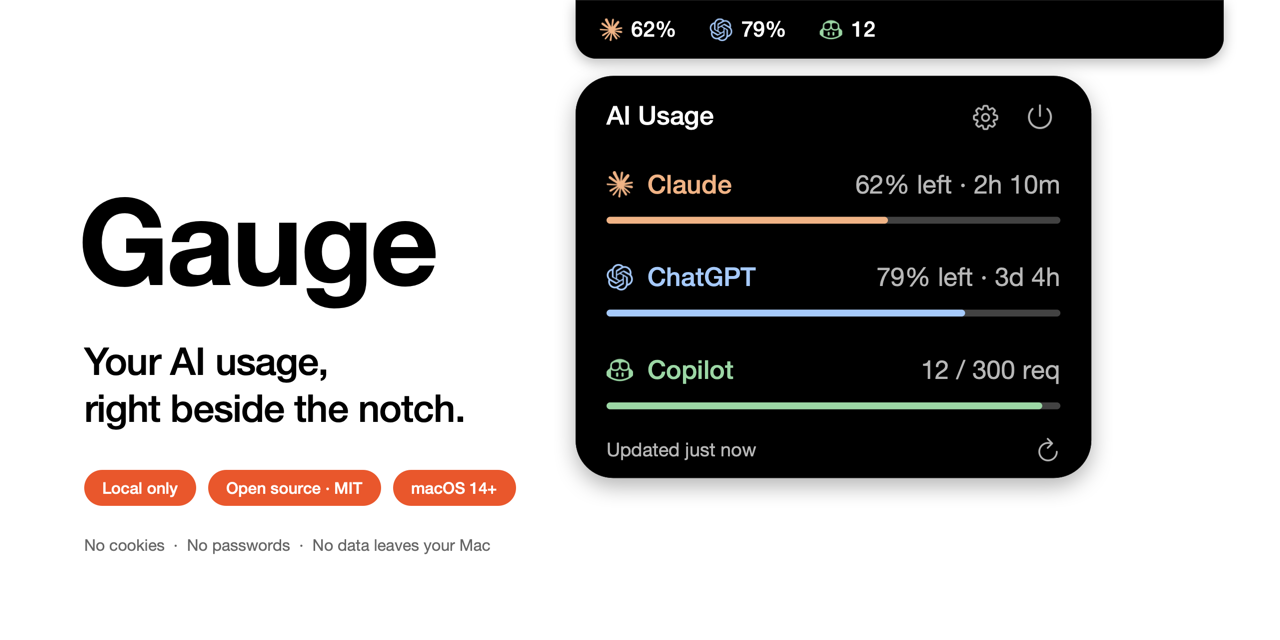
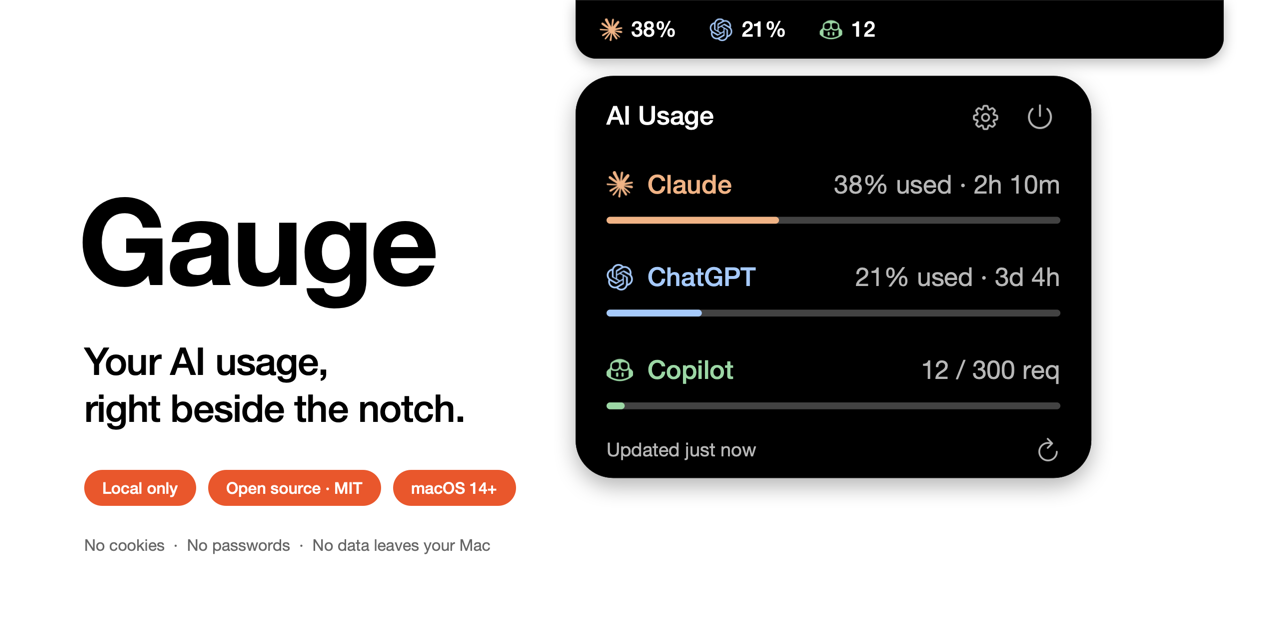
Show usage as "used" everywhere; start versioning at 0.1.0
- Island, card, bars, hover lists and alerts all show what has been used,
  never what is left; bars fill as you spend and turn red near the limit
- Typed-in Claude percentages are entered as "used", like claude.ai shows
- README and images updated to match; version reset to 0.1.0

diff --git a/Sources/Gauge/AppModel.swift b/Sources/Gauge/AppModel.swift
@@ -67,7 +67,7 @@ final class AppModel {
     var codexStale: Bool { error != nil || lastUpdated == nil || (lastUpdated.map { now.timeIntervalSince($0) > Double(refreshMinutes * 60 + 90) } ?? true) }
     /// What Claude Code reports about the real limits, ready to show. Windows that already reset count as unused.
     private struct ClaudeExact {
-        let remaining: Double          // 0...1, the tightest limit
+        let used: Double               // 0...1, the tightest limit
         let barText: String
         let cardText: String
         let lines: [(name: String, value: String)]
@@ -76,44 +76,44 @@ final class AppModel {
         guard let limits = claudeLimits, now.timeIntervalSince(limits.updatedAt) < 7 * 86400 else { return nil }
         let stale = now.timeIntervalSince(limits.updatedAt) > 90 * 60
         let suffix = stale ? " · Stale" : ""
-        func left(_ w: ClaudeLimitWindow) -> (fraction: Double, resets: Date?) {
-            if let r = w.resetsAt, r <= now { return (1, nil) }   // window rolled over since the last report
-            return (max(0, min(1, 1 - w.usedPercent / 100)), w.resetsAt)
+        func usedIn(_ w: ClaudeLimitWindow) -> (fraction: Double, resets: Date?) {
+            if let r = w.resetsAt, r <= now { return (0, nil) }   // window rolled over since the last report
+            return (max(0, min(1, w.usedPercent / 100)), w.resetsAt)
         }
         func percent(_ f: Double) -> String { "\(Int((f * 100).rounded()))%" }
         var lines: [(name: String, value: String)] = []
 
         if let spend = limits.spend {
-            var fraction = max(0, min(1, 1 - spend.usedPercent / 100))
+            var fraction = max(0, min(1, spend.usedPercent / 100))
             var resets = spend.resetsAt
-            if let r = resets, r <= now { fraction = 1; resets = nil }
+            if let r = resets, r <= now { fraction = 0; resets = nil }
             let period = spend.period.map { "\($0.capitalized) spend limit" } ?? "Spend limit"
             let amount: String
             if let used = spend.usedUSD, let limit = spend.limitUSD { amount = "\(money(used)) / \(money(limit))" }
-            else { amount = "\(percent(fraction)) left" }
+            else { amount = "\(percent(fraction)) used" }
             lines.append((period, amount))
             if let window = limits.fiveHour { lines.append(("5-hour limit", windowValue(window))) }
             if let window = limits.sevenDay { lines.append(("Weekly limit", windowValue(window))) }
             let countdown = shortCountdown(resets, now: now).map { " · \($0)" } ?? ""
-            return ClaudeExact(remaining: fraction, barText: spend.usedUSD.map(money) ?? percent(fraction),
+            return ClaudeExact(used: fraction, barText: spend.usedUSD.map(money) ?? percent(fraction),
                                cardText: amount + countdown + suffix, lines: lines)
         }
         var candidates: [(label: String, fraction: Double, resets: Date?)] = []
-        if let w = limits.fiveHour { let l = left(w); candidates.append(("5-hour limit", l.fraction, l.resets)) }
-        if let w = limits.sevenDay { let l = left(w); candidates.append(("Weekly limit", l.fraction, l.resets)) }
-        guard let tightest = candidates.min(by: { $0.fraction < $1.fraction }) else { return nil }
+        if let w = limits.fiveHour { let l = usedIn(w); candidates.append(("5-hour limit", l.fraction, l.resets)) }
+        if let w = limits.sevenDay { let l = usedIn(w); candidates.append(("Weekly limit", l.fraction, l.resets)) }
+        guard let tightest = candidates.max(by: { $0.fraction < $1.fraction }) else { return nil }
         lines = candidates.map { c in
             let countdown = shortCountdown(c.resets, now: now).map { " · \($0)" } ?? ""
-            return (name: c.label, value: "\(percent(c.fraction)) left" + countdown)
+            return (name: c.label, value: "\(percent(c.fraction)) used" + countdown)
         }
         let countdown = shortCountdown(tightest.resets, now: now).map { " · \($0)" } ?? ""
-        return ClaudeExact(remaining: tightest.fraction, barText: percent(tightest.fraction),
-                           cardText: "\(percent(tightest.fraction)) left" + countdown + suffix, lines: lines)
+        return ClaudeExact(used: tightest.fraction, barText: percent(tightest.fraction),
+                           cardText: "\(percent(tightest.fraction)) used" + countdown + suffix, lines: lines)
     }
     private func windowValue(_ w: ClaudeLimitWindow) -> String {
-        if let r = w.resetsAt, r <= now { return "100% left" }
+        if let r = w.resetsAt, r <= now { return "0% used" }
         let countdown = shortCountdown(w.resetsAt, now: now).map { " · \($0)" } ?? ""
-        return "\(Int((max(0, 100 - w.usedPercent)).rounded()))% left" + countdown
+        return "\(Int(max(0, min(100, w.usedPercent)).rounded()))% used" + countdown
     }
 
     private var manualClaudeFresh: Bool { claudeSession >= 0 && !claudeStale }
@@ -121,19 +121,19 @@ final class AppModel {
     private func claudeAmount(tokens: Int, cost: Double) -> String { claudeUnit == "dollars" ? money(cost) : compactTokens(tokens) }
     var claudeBarText: String {
         if let exact = claudeExact { return exact.barText }
-        if manualClaudeFresh { return "\(claudeSession)%" }
+        if manualClaudeFresh { return "\(100 - claudeSession)%" }
         if let local = claudeLocal {
             return claudeAmount(tokens: local.sessionTokens ?? local.weeklyTokens, cost: local.sessionCost ?? local.weeklyCost)
         }
-        return claudeSession >= 0 ? "\(claudeSession)%" : "—"
+        return claudeSession >= 0 ? "\(100 - claudeSession)%" : "—"
     }
-    /// 0...1 for the Claude bar: remaining % when known, otherwise the time left in the current 5-hour session.
+    /// 0...1 for the Claude bar: share used when known, otherwise the time left in the current 5-hour session (shown as a caption, not a bar).
     var claudeProgress: Double? {
-        if let exact = claudeExact { return exact.remaining }
-        if manualClaudeFresh { return Double(claudeSession) / 100 }
+        if let exact = claudeExact { return exact.used }
+        if manualClaudeFresh { return Double(100 - claudeSession) / 100 }
         if let local = claudeLocal, let resets = local.sessionResetsAt { return max(0, min(1, resets.timeIntervalSince(now) / (5 * 3600))) }
         if claudeLocal != nil { return 1 }
-        return claudeSession >= 0 ? Double(claudeSession) / 100 : nil
+        return claudeSession >= 0 ? Double(100 - claudeSession) / 100 : nil
     }
     /// Per-project lines for the card (at most 4 rows; the rest are folded into "+N more").
     private func lines(_ projects: [ProjectUsage], amount: (Int, Double) -> String) -> [(name: String, tokens: String)] {
@@ -178,19 +178,19 @@ final class AppModel {
         return codexProjectsWeek.isEmpty ? [] : idleLines("No activity in this window", week: codexProjectsWeek)
     }
     private var codexBarText: String {
-        if let codex = shortestCodex { return "\(codexStale ? "~" : "")\(Int(codex.remainingPercent.rounded()))%" }
+        if let codex = shortestCodex { return "\(codexStale ? "~" : "")\(Int(codex.usedPercent.rounded()))%" }
         if codexCredits?.unlimited == true { return "∞" }
-        if codexSpendReached { return "0" }
+        if codexSpendReached { return "100%" }
         if let balance = codexCredits?.balance, codexCredits?.hasCredits == true { return balance }
         return "—"
     }
     private var codexCardText: String {
         if codexSpendReached { return "Spend limit reached" }
         if let codex = shortestCodex {
-            let remaining = "\(Int(codex.remainingPercent.rounded()))% left"
-            if codexStale { return "\(remaining) · Stale" }
-            if let countdown = shortCountdown(codex.resetsAt, now: now) { return "\(remaining) · \(countdown)" }
-            return remaining
+            let used = "\(Int(codex.usedPercent.rounded()))% used"
+            if codexStale { return "\(used) · Stale" }
+            if let countdown = shortCountdown(codex.resetsAt, now: now) { return "\(used) · \(countdown)" }
+            return used
         }
         // No percent windows: admin-managed or credit-based plan.
         if let credits = codexCredits {
@@ -207,18 +207,18 @@ final class AppModel {
         case nil: return "Limit"
         }
     }
-    /// One line per rate-limit window ("Weekly limit  79% · 3d 4h"), shown before the per-project list.
+    /// One line per rate-limit window ("Weekly limit  21% · 3d 4h"), shown before the per-project list.
     private var codexWindowLines: [(name: String, value: String)] {
         windows.sorted { ($0.durationMinutes ?? 0) < ($1.durationMinutes ?? 0) }.map { w in
-            let left = "\(Int(w.remainingPercent.rounded()))%"
-            let value = shortCountdown(w.resetsAt, now: now).map { "\(left) · \($0)" } ?? left
+            let used = "\(Int(w.usedPercent.rounded()))%"
+            let value = shortCountdown(w.resetsAt, now: now).map { "\(used) · \($0)" } ?? used
             return (name: windowLabel(w.durationMinutes), value: value)
         }
     }
     private var codexProgress: Double? {
-        if let codex = shortestCodex { return codex.remainingPercent / 100 }
-        if codexSpendReached { return 0 }
-        if codexCredits?.unlimited == true { return 1 }
+        if let codex = shortestCodex { return codex.usedPercent / 100 }
+        if codexSpendReached { return 1 }
+        if codexCredits?.unlimited == true { return 0 }
         return nil
     }
     private func rows(_ items: [(name: String, tokens: String)]) -> [(name: String, value: String)] {
@@ -243,7 +243,7 @@ final class AppModel {
         return ProviderCard(id: "copilot", glyph: "◆", name: "Copilot", tint: Palette.green,
                             barText: formatRequests(used),
                             cardText: "\(formatRequests(used)) / \(limit) req",
-                            progress: max(0, 1 - used / Double(limit)), lines: lines)
+                            progress: min(1, used / Double(limit)), lines: lines)
     }
 
     /// Why GitHub billing could not be read (nil when it works or is off). Shown in Settings.
@@ -282,18 +282,19 @@ final class AppModel {
     }
     var claudeCardText: String {
         if let exact = claudeExact { return exact.cardText }
-        if manualClaudeFresh { return "\(claudeSession)% left" }
+        if manualClaudeFresh { return "\(100 - claudeSession)% used" }
         if let local = claudeLocal {
             if let tokens = local.sessionTokens {
                 return claudeAmount(tokens: tokens, cost: local.sessionCost ?? 0)
             }
             return claudeAmount(tokens: local.weeklyTokens, cost: local.weeklyCost)
         }
-        if claudeSession >= 0 { return "\(claudeSession)% left · Stale" }
-        if claudeWeekly >= 0 { return "\(claudeWeekly)% weekly" }
+        if claudeSession >= 0 { return "\(100 - claudeSession)% used · Stale" }
+        if claudeWeekly >= 0 { return "\(100 - claudeWeekly)% weekly used" }
         return "No data"
     }
-    var shortestCodex: UsageWindow? { windows.min { $0.remainingPercent < $1.remainingPercent } }
+    /// The window that is closest to its limit (the most used one).
+    var shortestCodex: UsageWindow? { windows.max { $0.usedPercent < $1.usedPercent } }
 
     private init() {
         claudeSession = defaults.object(forKey: "claudeSession") as? Int ?? -1
@@ -412,7 +413,7 @@ final class AppModel {
             guard band < previous, band != 101 else { continue }
             let note = UNMutableNotificationContent()
             note.title = "Codex usage warning"
-            note.body = "\(item.name): \(Int(remaining.rounded()))% remaining"
+            note.body = "\(item.name): \(Int((100 - remaining).rounded()))% used"
             UNUserNotificationCenter.current().add(
                 UNNotificationRequest(identifier: UUID().uuidString, content: note, trigger: nil)
             ) { _ in }

diff --git a/Sources/Gauge/UI.swift b/Sources/Gauge/UI.swift
@@ -1,7 +1,7 @@
 import AppKit
 import Foundation
 
-/// Thin rounded progress bar. `progress` is 0...1 of the remaining amount; nil shows an empty track.
+/// Thin rounded progress bar. `progress` is 0...1 of the amount used; nil shows an empty track.
 @MainActor
 final class ProgressBar: NSView {
     private let fill = CALayer()
@@ -27,8 +27,8 @@ final class ProgressBar: NSView {
         CATransaction.begin()
         CATransaction.setAnimationDuration(0.25)
         fill.frame = CGRect(x: 0, y: 0, width: bounds.width * value, height: bounds.height)
-        // Turn red when little is left.
-        let low = isExact && (progress.map { $0 <= 0.15 } ?? false)
+        // Turn red when the limit is nearly used up.
+        let low = isExact && (progress.map { $0 >= 0.85 } ?? false)   // nearly used up
         fill.backgroundColor = (low ? NSColor.systemRed : (isExact ? tint : NSColor(calibratedWhite: 0.5, alpha: 1))).cgColor
         CATransaction.commit()
     }
@@ -494,7 +494,7 @@ final class SettingsWindowController: NSWindowController, NSTabViewDelegate {
         manualButtons.addArrangedSubview(actionButton("Clear", target: self, action: #selector(clearClaude)))
         manualButtons.addArrangedSubview(actionButton("Open Claude usage page", target: self, action: #selector(openClaude)))
         [help("Only needed if you do not connect real limits above. Copy the percentages from claude.ai → Settings → Usage. A value saved less than an hour ago is shown instead of dollars or tokens."),
-         settingsRow("5-hour window left", control: session), settingsRow("Weekly limit left", control: weekly),
+         settingsRow("5-hour window used", control: session), settingsRow("Weekly limit used", control: weekly),
          settingsRow("Window resets at", control: resetPicker), manualButtons].forEach { manualBody.addArrangedSubview($0) }
         let manualBlock = verticalStack(spacing: 8)
         manualBlock.addArrangedSubview(manualHeader)
@@ -514,7 +514,7 @@ final class SettingsWindowController: NSWindowController, NSTabViewDelegate {
         addTab("ChatGPT", [
             group("Limits", [help("Gauge asks the Codex program on this Mac for your limits and when they reset. Sign in once with your ChatGPT account using the command codex login."),
                               actionButton("Refresh now", target: self, action: #selector(refresh))]),
-            group("Alerts", [notifyCheckbox, help("A normal macOS notification at 20%, 10% and 0% left. macOS asks your permission the first time.")])
+            group("Alerts", [notifyCheckbox, help("A normal macOS notification when 80%, 90% and 100% of your limit is used. macOS asks your permission the first time.")])
         ])
         addTab("Copilot", [
             group("Usage", [copilotCheckbox, settingsRow("Monthly requests", control: copilotLimitField),
@@ -563,8 +563,9 @@ final class SettingsWindowController: NSWindowController, NSTabViewDelegate {
     }
     func reload() {
         updateLimitsUI()
-        session.selectItem(at: model.claudeSession + 1)
-        weekly.selectItem(at: model.claudeWeekly + 1)
+        // The model keeps "% left" (as before); the pickers show "% used", like claude.ai does.
+        session.selectItem(at: model.claudeSession < 0 ? 0 : (100 - model.claudeSession) + 1)
+        weekly.selectItem(at: model.claudeWeekly < 0 ? 0 : (100 - model.claudeWeekly) + 1)
         resetPicker.dateValue = model.claudeReset
         copilotCheckbox.state = model.useCopilot ? .on : .off
         copilotLimitField.stringValue = String(model.copilotLimit)
@@ -579,7 +580,10 @@ final class SettingsWindowController: NSWindowController, NSTabViewDelegate {
         status.stringValue = model.loginError ?? "Gauge keeps everything on this Mac. It never asks for passwords, reads cookies or sends your data anywhere."
         status.textColor = model.loginError == nil ? .secondaryLabelColor : .systemOrange
     }
-    @objc private func saveClaude() { model.saveClaude(session: session.indexOfSelectedItem - 1, weekly: weekly.indexOfSelectedItem - 1, reset: resetPicker.dateValue) }
+    @objc private func saveClaude() {
+        func left(_ index: Int) -> Int { index <= 0 ? -1 : 100 - (index - 1) }   // picker shows "used"
+        model.saveClaude(session: left(session.indexOfSelectedItem), weekly: left(weekly.indexOfSelectedItem), reset: resetPicker.dateValue)
+    }
     @objc private func clearClaude() { model.clearClaude(); reload() }
     @objc private func openClaude() { NSWorkspace.shared.open(URL(string: "https://claude.ai/settings/usage")!) }
     @objc private func refresh() { model.refresh() }

diff --git a/Sources/Gauge/CodexClient.swift b/Sources/Gauge/CodexClient.swift
@@ -83,7 +83,7 @@ struct CodexClient {
             input.fileHandleForWriting.write(payload + Data([10]))
         }
         try send(["id": 1, "method": "initialize", "params": [
-            "clientInfo": ["name": "gauge", "title": "Gauge", "version": "0.3.2"],
+            "clientInfo": ["name": "gauge", "title": "Gauge", "version": "0.1.0"],
             "capabilities": [:] as [String: String]
         ]])
         let initialized = try collector.wait(for: 1, timeout: 8)

diff --git a/Sources/Gauge/Provider.swift b/Sources/Gauge/Provider.swift
@@ -11,7 +11,7 @@ struct ProviderCard {
     let barText: String
     /// Right-hand status on the card row.
     let cardText: String
-    /// 0...1 of what is left; nil draws an empty bar.
+    /// 0...1 of what is used (the bar fills as you spend); nil draws an empty bar.
     let progress: Double?
     /// False when the bar is only a rough guide (for example Claude's session clock), so it is never drawn as a warning.
     var progressIsExact: Bool = true

diff --git a/README.md b/README.md
@@ -20,7 +20,7 @@ On a MacBook with a notch, the numbers sit next to the notch. Move the mouse ont
 ### What you get
 
 - **A glance at the top of the screen:** a logo and a short value per tool beside the notch (or in the menu bar on Macs without one).
-- **A card on hover** with a progress bar per tool and a breakdown by project.
+- **A card on hover** with a progress bar per tool and a breakdown by project. Everything is shown as **what you have used**, so a bigger number or a fuller bar always means more spent.
 - **Claude Code:** what the current 5-hour session cost, in dollars at API prices or in tokens, plus your **real limit and reset time** (or your company's spend and budget) once you connect it with one click.
 - **ChatGPT (Codex):** your real 5-hour and weekly limits with reset countdowns, and optional alerts.
 - **GitHub Copilot:** premium requests this month against your plan's allowance, with an optional exact total from GitHub.
@@ -174,7 +174,7 @@ Claude does not let other programs read your limit directly, but Claude Code its
 1. Open Gauge's **Settings** (gear on the card) and go to the **Claude** tab.
 2. Under **Real limits from Claude Code**, click **Connect Claude limits**.
 3. Gauge explains what it will change. Click **Connect**.
-4. Use Claude Code as usual. After its next reply, the Claude row shows your real percentage left and when it resets. Claude Code sessions that were already open may need a restart.
+4. Use Claude Code as usual. After its next reply, the Claude row shows how much of your real limit you have used and when it resets. Claude Code sessions that were already open may need a restart.
 
 What this does: it adds one entry called `statusLine` to Claude Code's settings file (`~/.claude/settings.json`). Gauge saves a backup copy next to it first (`settings.json.gauge-backup`). If you already have your own status line, it keeps working: Gauge passes the information on to it. Click **Disconnect** in the same place to put everything back exactly as it was.
 
@@ -197,7 +197,7 @@ You only do this once. It uses an app called **Terminal**, which is already on y
    ```
 
 4. Your web browser opens. Sign in with your ChatGPT account and approve.
-5. Back in Gauge, click ⟳. The ChatGPT row now shows how much of your limit is left, and when it resets.
+5. Back in Gauge, click ⟳. The ChatGPT row now shows how much of your limit you have used, and when it resets.
 
 If you do not use Codex, simply skip this. The ChatGPT row only appears once Gauge finds Codex on your Mac.
 
@@ -233,15 +233,15 @@ If it does not work (for example because your company manages your GitHub accoun
 
 1. **The island** next to the notch: a logo and a short value for each tool. This is what you see all the time.
 2. **The tool's logo and name.** Move the mouse onto a row to see a breakdown.
-3. **The main figure** on the right: how much is left (or how much you used) and when it resets.
-4. **The bar**: how much is left. It turns red when little is left.
+3. **The main figure** on the right: how much you have used, and when it resets.
+4. **The bar**: how much of the limit is used. It fills as you spend and turns red when it is nearly used up.
 5. **Buttons**: the gear opens Settings, the power button quits Gauge. The arrow at the bottom right reloads the numbers.
 
 The card has one row per tool. Each row has:
 
 - **The tool's logo and name** (Claude, ChatGPT, Copilot).
-- **A number on the right**, for example `$10.8` or `79% left`.
-- **A coloured bar** underneath that shows how much is left. It turns **red** when little is left.
+- **A number on the right**, for example `$10.8` or `21% used`.
+- **A coloured bar** underneath that fills as you use more. It turns **red** when you are close to the limit.
 - For Claude, if you have neither connected the limits nor typed in percentages, a **short note** instead of a bar, saying what the number is (see below). Without your real limit there is nothing true to draw as a bar.
 
 What the text means for each tool:
@@ -250,9 +250,9 @@ What the text means for each tool:
 |------|------|---------|
 | **Claude** | `$10.8` and the note *This 5-hour session · 1h 18m left* | What this 5-hour session cost at normal public prices, and how long until the session ends. In tokens mode, it shows a token count instead of dollars. |
 | **Claude** (idle) | `$270` and the note *No active session · last 7 days* | No session is running. This is the total for the last 7 days. |
-| **Claude** (limits connected) | `29% left · 1h 14m` and a bar | Your real limit: how much is left in the tightest window (5-hour or weekly) and when it resets. With a company spend limit it reads like `$314 / $500 · 12d 3h`. If Claude Code has not reported for a while it says *Stale*. |
-| **Claude** (with percentages typed in) | `62% left` and a bar | The percentage you copied from the Claude website. |
-| **ChatGPT** | `79% left · 3d 4h` | How much of your limit is left, and when it resets. |
+| **Claude** (limits connected) | `38% used · 2h 10m` and a bar | Your real limit: how much of the fullest window (5-hour or weekly) is used and when it resets. With a company spend limit it reads like `$314 / $500 · 12d 3h`. If Claude Code has not reported for a while it says *Stale*. |
+| **Claude** (with percentages typed in) | `38% used` and a bar | The percentage you copied from the Claude website. |
+| **ChatGPT** | `21% used · 3d 4h` | How much of your limit is used, and when it resets. |
 | **Copilot** | `12 / 300 req` | Requests used this month out of your monthly allowance. |
 
 **Move the mouse onto a row** to see a breakdown: which projects used how much. For ChatGPT it also shows both limits (the 5-hour one and the weekly one) with their reset times.
@@ -292,8 +292,8 @@ Only needed if you do not connect real limits. Copy the percentages from claude.
 
 | Setting | What it does |
 |---------|--------------|
-| **5-hour window left** | The percentage left in your 5-hour window. |
-| **Weekly limit left** | The percentage left for the week. |
+| **5-hour window used** | The percentage used in your 5-hour window, as claude.ai shows it. |
+| **Weekly limit used** | The percentage used for the week. |
 | **Window resets at** | When your 5-hour window resets. |
 | **Save** | Saves the three values above. |
 | **Clear** | Deletes the saved values. |
@@ -308,7 +308,7 @@ Only needed if you do not connect real limits. Copy the percentages from claude.
 | Setting | What it does |
 |---------|--------------|
 | **Refresh now** | Asks Codex for fresh numbers right away. |
-| **Notify me when my limit is almost used up** | Sends a normal macOS notification when your ChatGPT (Codex) limit reaches 20%, 10% and 0% left. macOS asks your permission the first time. |
+| **Notify me when my limit is almost used up** | Sends a normal macOS notification when your ChatGPT (Codex) limit is 80%, 90% and 100% used. macOS asks your permission the first time. |
 
 ### Copilot tab
 
@@ -338,6 +338,7 @@ Only needed if you do not connect real limits. Copy the percentages from claude.
 
 ## 9. Understanding the numbers
 
+- **Everything is "used".** Dollars, percentages and requests all show how much you have spent, never how much is left. Bigger means more used.
 - **Dollars are not a bill.** They are an estimate of what the same usage would cost at the normal public prices of Anthropic's service. If you use a subscription (Pro, Max, Team), you do not pay per token, so the dollar figure is just a way to compare days and projects. If your company pays by usage, it is a good guide, but your real invoice may be a little different because of discounts and extras.
 - **Only this Mac is counted.** Using a website, a phone app or another computer does not appear in Gauge.
 - **Claude's real limit needs one click.** Claude Code knows your limit but only hands it over once you **Connect** it in Settings (see [section 6](#optional-real-claude-limits-from-claude-code)). Until then Claude shows a note about your session instead of a bar. ChatGPT is different: its real limit comes straight from Codex.
